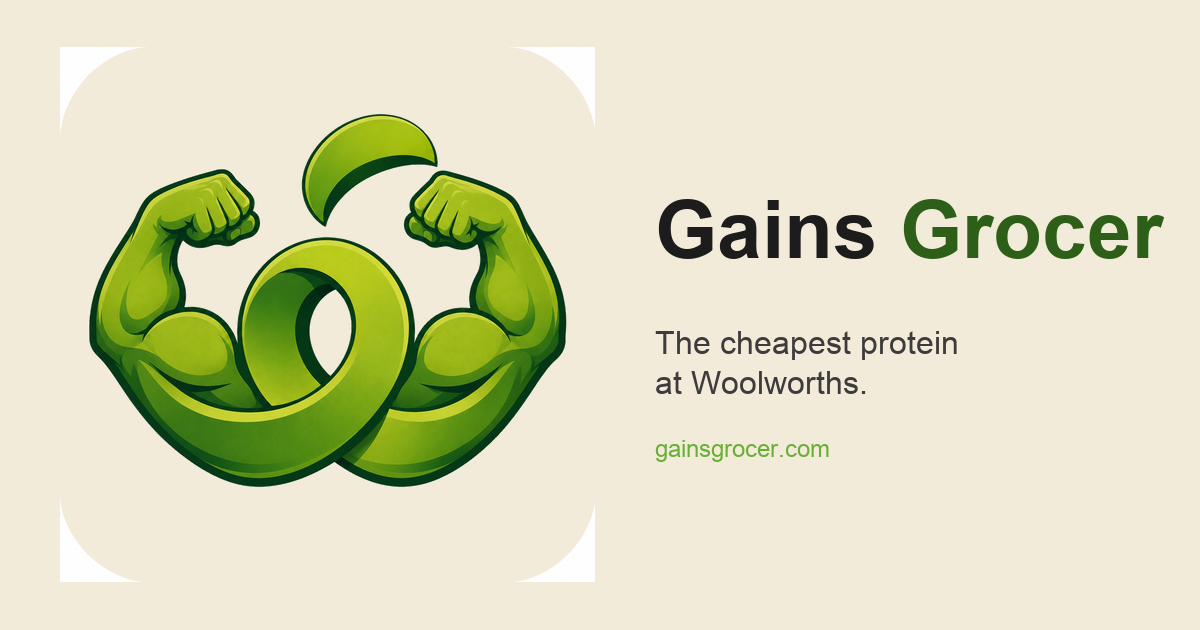
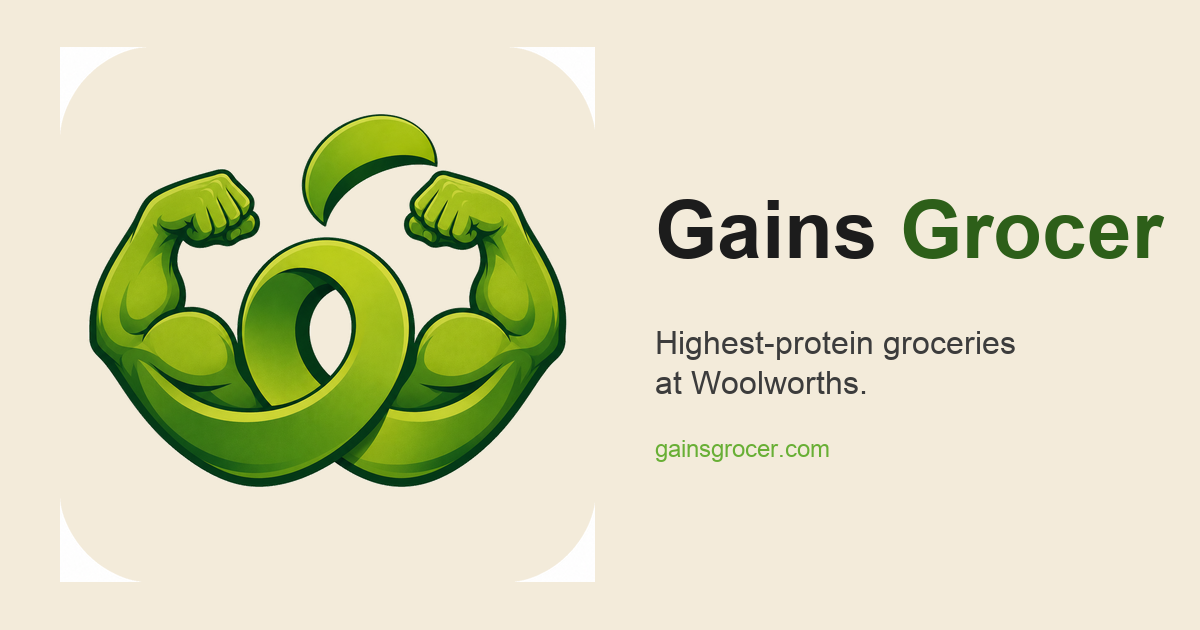
Reframe around protein density; add 'Lowest calories' sort
- Tagline: 'Find the highest-protein groceries at Woolworths.'
  (was 'cheapest protein, ranked by what it costs')
- layout.tsx metadata + OG card description aligned.
- New sort chip: 'Lowest calories' — sorts ascending by kcal/100g,
  derived from energyKjPer100g / 4.184. Items without published
  energy data sink to the bottom.

Changed region(s): [[0.5242, 0.5127, 0.8633, 0.573]]

diff --git a/web/app/page.tsx b/web/app/page.tsx
@@ -5,18 +5,20 @@ import Image from "next/image";
 import { wooliesSearch, type WooliesProduct } from "@/lib/woolies";
 import { ProductCard } from "@/components/ProductCard";
 import { SearchBox } from "@/components/SearchBox";
-import { computeProteinPer100kcal } from "@/lib/rating";
+import { computeProteinPer100kcal, KJ_PER_KCAL } from "@/lib/rating";
 import { pricePer100gProtein, pricePerKg } from "@/lib/pricing";
 
 type SortKey =
   | "relevance"
   | "protein-density"
+  | "lowest-kcal"
   | "cheapest-per-100g-protein"
   | "cheapest-per-kg";
 
 const SORT_LABELS: Record<SortKey, string> = {
   "relevance": "Relevance",
   "protein-density": "Most protein per kcal",
+  "lowest-kcal": "Lowest calories",
   "cheapest-per-100g-protein": "Cheapest protein",
   "cheapest-per-kg": "Cheapest per kg",
 };
@@ -38,6 +40,10 @@ function scoreFor(p: WooliesProduct, key: SortKey): number | null {
     case "protein-density": {
       const d = p.nutrition ? computeProteinPer100kcal(p.nutrition) : null;
       return d && Number.isFinite(d.value) ? d.value : null;
+    }
+    case "lowest-kcal": {
+      const kj = p.nutrition?.energyKjPer100g;
+      return kj != null && kj > 0 ? kj / KJ_PER_KCAL : null;
     }
     case "cheapest-per-100g-protein":
       return pricePer100gProtein(p);
@@ -102,7 +108,7 @@ export default function Home() {
             <span className="text-green-700">Grocer</span>
           </h1>
           <p className="hidden sm:block text-sm text-gray-500">
-            The cheapest protein at Woolworths, ranked by what it costs.
+            Find the highest-protein groceries at Woolworths.
           </p>
         </div>
       </header>

diff --git a/web/app/layout.tsx b/web/app/layout.tsx
@@ -3,15 +3,15 @@ import "./globals.css";
 
 export const metadata: Metadata = {
   title: {
-    default: "Gains Grocer — cheap protein at Woolworths",
+    default: "Gains Grocer — highest-protein groceries at Woolworths",
     template: "%s · Gains Grocer",
   },
   description:
-    "Find the most protein per dollar at Woolworths. Every product rated by grams of protein per 100 kcal, plus price per kg and per 100 g of protein.",
+    "Every Woolworths product, ranked by grams of protein per 100 kcal. Sort by protein density, cheapest protein, or cheapest per kg.",
   metadataBase: new URL("https://gainsgrocer.com"),
   openGraph: {
     title: "Gains Grocer",
-    description: "Find the cheapest protein at Woolworths.",
+    description: "Find the highest-protein groceries at Woolworths.",
     url: "https://gainsgrocer.com",
     siteName: "Gains Grocer",
     locale: "en_AU",
@@ -20,7 +20,7 @@ export const metadata: Metadata = {
   twitter: {
     card: "summary_large_image",
     title: "Gains Grocer",
-    description: "Find the cheapest protein at Woolworths.",
+    description: "Find the highest-protein groceries at Woolworths.",
   },
   icons: {
     icon: "/favicon.ico",

diff --git a/web/scripts/make-icons.py b/web/scripts/make-icons.py
@@ -82,7 +82,7 @@ def make_og_image(img: Image.Image, size=(1200, 630)) -> Image.Image:
     gains_w = draw.textlength("Gains ", font=title_font)
     draw.text((text_x, text_y), "Gains", fill=(28, 28, 28), font=title_font)
     draw.text((text_x + gains_w, text_y), "Grocer", fill=DARK_GREEN, font=title_font)
-    draw.text((text_x, text_y + 140), "The cheapest protein", fill=(60, 60, 60), font=tag_font)
+    draw.text((text_x, text_y + 140), "Highest-protein groceries", fill=(60, 60, 60), font=tag_font)
     draw.text((text_x, text_y + 180), "at Woolworths.", fill=(60, 60, 60), font=tag_font)
     draw.text((text_x, text_y + 250), "gainsgrocer.com", fill=GREEN, font=sub_font)
     return canvas
